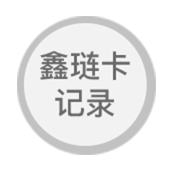
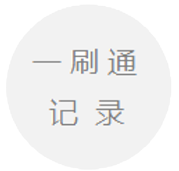
1.修改鑫链卡-->一刷通。2.调整路径

Changed region(s): [[0.0877, 0.0877, 0.9357, 0.9064], [0.2632, 0.4971, 0.7018, 0.7602]]

diff --git a/pages/profit/profit.vue b/pages/profit/profit.vue
@@ -68,7 +68,7 @@
 							<text v-else style="font-size: 22rpx;color: rgba(51, 51, 51, 1);">人(使用<text style="font-size: 22rpx;color:rgba(255,96,0,1);">{{is_vips}}</text>人)</text>
 						</view>
 						<view style="margin-top: -20rpx;margin-right: 90rpx;">
-							<text style="font-size: 22rpx;color: rgba(51, 51, 51, 1);">鑫链卡<text style="font-size: 22rpx;color:rgba(255,96,0,1);">{{card_num}}</text>张</text>
+							<text style="font-size: 22rpx;color: rgba(51, 51, 51, 1);">一刷通<text style="font-size: 22rpx;color:rgba(255,96,0,1);">{{card_num}}</text>张</text>
 						</view>
 					</view>
 				</view>
@@ -92,7 +92,7 @@
 					<image src="../../static2/jianto.png" mode="" class="jiantos"></image>
 				</view>
 				</view>
-				<!-- 鑫链卡 -->
+				<!-- 一刷通 -->
 				<view v-show="level_name=='免费用户'" style="margin-top: 10rpx;margin-bottom: 110rpx;" @tap="mianfyh">
 					<image src="../../static2/bannars.png" mode="" style="width: 750rpx;height: 300rpx;"></image>
 				</view>
@@ -118,7 +118,7 @@
 			<!-- 确认变现弹框 -->
 			<uni-popup ref="popup" type="center" style="z-index: 9999;">
 				<view class="tabk">
-					<view class="tabk_b">鑫琏卡变现</view>
+					<view class="tabk_b">一刷通变现</view>
 					<view class="tabk_x">确认将此卡交易变现</view>
 					<view class="tabk_y">折扣价{{sell_money}}元</view>
 					<view class="tabk_k">可在收益页面查看余额后提现</view>
@@ -159,7 +159,7 @@
 				level_name: '', //等级
 				performance_num_str: '', //绩效
 				is_vips: '',//VIP人数
-				card_num: '',//鑫链卡数量
+				card_num: '',//一刷通数量
 				sell_money: '',
 				start: [0, 0],
 				moveY: 0,
@@ -203,7 +203,7 @@
 			},
 			qiaozhuandaokehu() {
 				uni.navigateTo({
-					url: '/pages/Last_page/Custome_services'
+					url: '/pages/Last_page/Custome_service'
 				})
 			},
 			// 获取页面数据
@@ -265,7 +265,7 @@
 			tuij() {
 				this.Goto('/pages/profit/Xinka')
 			},
-			// 鑫链卡使用
+			// 一刷通使用
 			use_sy(coding, card_id) {
 				this.Goto('/pages/profit/Use_file?card_id=' + card_id + '&coding=' + coding)
 			},

diff --git a/pages/share/share.vue b/pages/share/share.vue
@@ -9,14 +9,14 @@
 			<image src="../../static2/erwei.png" mode="" style="width: 42rpx;height: 42rpx;display: inline-block;margin-left: 25rpx;transform: translateY(-10rpx);"></image>
 			<view style="display: inline-block;margin-left: 31rpx;line-height: 50rpx;">
 			<view style="font-size: 32rpx;">分享二维码</view>
-			<view style="font-size: 24rpx;color: rgba(241, 51, 51, 1);">分享二维码后请让客户关注鑫链卡微信公众号</view>
+			<view style="font-size: 24rpx;color: rgba(241, 51, 51, 1);">分享二维码后请让客户关注一刷通微信公众号</view>
 			</view>
 			<image src="../../static2/gengduo.png" mode="" style="width: 19rpx;height: 34rpx;margin-left: 125rpx;transform: translateY(-10rpx);"></image>
 		</view>
 		<!-- 分享公众号 -->
 		<!-- <view class="weimass" @tap="xianshi">
 			<image src="../../static2/wex.png" mode="" style="width: 42rpx;height: 42rpx;margin-left: 25rpx;margin-right: 31rpx;transform: translateY(10rpx);"></image>
-			<text style="font-size: 32rpx;">分享鑫琏卡微信公众号（<text style="font-size: 32rpx;color: rgba(252, 128, 128, 1);font-weight: bold;">客服</text>）</text>
+			<text style="font-size: 32rpx;">分享一刷通微信公众号（<text style="font-size: 32rpx;color: rgba(252, 128, 128, 1);font-weight: bold;">客服</text>）</text>
 			<image src="../../static2/gengduo.png" mode="" style="width: 19rpx;height: 34rpx;margin-left: 155rpx;"></image>
 		</view> -->
 		<graceBottomDialog :show="show3" v-on:closeDialog="closeDialog3">

diff --git a/pages/personal_center/Limited_activities.vue b/pages/personal_center/Limited_activities.vue
@@ -6,7 +6,7 @@
     <view class="titlequ">限时领取</view>
     <view class="title_2"></view>
     <view class="zhuancx">VIP专享</view>
-    <view class="zhuancx_2">鑫琏卡加速包</view>
+    <view class="zhuancx_2">一刷通加速包</view>
     <view class="zhuancx_3">年营利5倍以上静态收益</view>
     <view class="zhuancx_3">70天可获全额度变现卡一张</view>
     <view class="liqujd">
@@ -41,7 +41,7 @@
           margin-left: 34rpx;
           margin-top: -45rpx;
         "
-        >*进度到达100%后获得一张鑫琏卡</view
+        >*进度到达100%后获得一张一刷通</view
       >
     </view>
     <view class="ann_linq" @tap="lingqus">
@@ -64,9 +64,9 @@
         <view class="linqu">领取规则</view>
         <view class="linqu_1">1.此活动仅对VIP及以上用户有效。</view>
         <view class="linqu_2">2.每周产生一笔云刷或代还，即可</view>
-        <view class="linqu_2s">领取10%鑫琏卡加速包。</view>
-        <view class="linqu_3">3.获取的鑫琏卡进度可在“卡券-鑫</view>
-        <view class="linqu_3s">琏卡中查看。</view>
+        <view class="linqu_2s">领取10%一刷通加速包。</view>
+        <view class="linqu_3">3.获取的一刷通进度可在“卡券-一</view>
+        <view class="linqu_3s">刷通中查看。</view>
         <view class="linqu_4">本活动最终解释权归xxxxxxxx所有</view>
         <view @tap="quxiao">
           <image

diff --git a/pages/profit/Xinka.vue b/pages/profit/Xinka.vue
@@ -1,7 +1,7 @@
 <template>
 	<!-- 推荐佣金 -->
 	<view slot="gBody">
-		<!-- 鑫链卡记录按钮 -->
+		<!-- 一刷通记录按钮 -->
 			<view class="wqann" @tap="jilu">
 				<image :style="'left:'+moveX+'px;top:'+moveY+'px'" src="../../static2/xnkjinu.png" @touchstart="drag_start"
 				 @touchmove.prevent="drag_hmove" mode="aspectFit" style="width: 150rpx;height: 150rpx;"></image>
@@ -25,7 +25,7 @@
 		<!-- 确认变现弹框 -->
 		<uni-popup ref="popup" type="center" style="z-index: 9999;">
 			<view class="tabk">
-				<view class="tabk_b">鑫琏卡变现</view>
+				<view class="tabk_b">一刷通变现</view>
 				<view class="tabk_x">确认将此卡交易变现</view>
 				<view class="tabk_y">折扣价{{sell_money}}元</view>
 				<view class="tabk_k">可在收益页面查看余额后提现</view>
@@ -77,7 +77,7 @@
 			}
 		},
 		methods: {
-			// 鑫链卡记录按钮拖拽功能
+			// 一刷通记录按钮拖拽功能
 			drag_start(event) {
 				this.start[0] = event.touches[0].clientX - event.target.offsetLeft;
 				this.start[1] = event.touches[0].clientY - event.target.offsetTop;
@@ -163,7 +163,7 @@
 			qx() {
 				this.$refs.popup.close()
 			},
-			// 鑫链卡使用
+			// 一刷通使用
 			use_sy(coding, card_id) {
 				this.Goto('/pages/profit/Use_file?card_id=' + card_id + '&coding=' + coding)
 			},

diff --git a/pages/register/register.vue b/pages/register/register.vue
@@ -46,7 +46,7 @@
 			<view>
 				<image src="../../static2/butoyi.png" v-if="is_xuanzhong" mode="" style="width: 40rpx;height: 40rpx;transform: translateY(10rpx);margin-left: 24rpx;" @tap="butoyis"></image>
 				<image src="../../static2/toyi.png" v-else mode="" style="width: 40rpx;height: 40rpx;transform: translateY(10rpx);margin-left: 24rpx;" @tap="toyis"></image>
-				<text style="font-size: 28rpx;color: #999999;margin-left: 15rpx;">同意鑫链卡注册协议</text>
+				<text style="font-size: 28rpx;color: #999999;margin-left: 15rpx;">同意一刷通注册协议</text>
 			
 			</view>
 			<!-- 注册按钮 -->
@@ -125,7 +125,7 @@
 				if (this.phoneno.length > 0 && this.yanzhengma.length > 0 && this.mima.length > 0) {
 					if(this.is_xuanzhong == true){
 						uni.showToast({
-							title: '请同意鑫链卡注册协议',
+							title: '请同意一刷通注册协议',
 							icon: "none"
 						});
 					}else{

diff --git a/pages/rise_vip/rise_vip.vue b/pages/rise_vip/rise_vip.vue
@@ -62,7 +62,7 @@
 			<view v-show="is_have_card!==0" @tap="get_pay_type(2)" class="grace-flex grace-flex-vcenter" style="margin-top: 5rpx; width:750rpx;height:100rpx;background:rgba(255,255,255,1);">
 				<view class="grace-rows">
 					<image src="../../static2/xlkzf.png" style="margin-left: 31rpx; width: 70rpx;height: 70rpx;"></image>
-					<text style="margin-left: 31rpx; font-size:26rpx;font-weight:400;color:rgba(42,42,42,1);line-height:30px;">鑫链卡支付</text>
+					<text style="margin-left: 31rpx; font-size:26rpx;font-weight:400;color:rgba(42,42,42,1);line-height:30px;">一刷通支付</text>
 					<image :src="pay_tape===2?'../../static/rise_vip_xuanzhong.png':'../../static/rise_vip_weixuanzhong.png'" style="position: relative; top: 17rpx;left: 375rpx; width: 32rpx;height: 32rpx;"></image>
 				</view>
 			</view>

diff --git a/pages/index/index.vue b/pages/index/index.vue
@@ -136,10 +136,10 @@
 
 			</uni-popup>
 			<!-- 客服服务 -->
-			<view class="kef_s" @tap="qiaozhuandaokehu">
+<!-- 			<view class="kef_s" @tap="qiaozhuandaokehu">
 				<image :style="'left:'+moveX+'px;top:'+moveY+'px'" @touchstart="drag_start" @touchmove.prevent="drag_hmove" src="../../static2/kefs.png"
 				 mode="" style="width: 152rpx;height:79rpx;transform: translate(4rpx,4rpx);"></image>
-			</view>
+			</view> -->
 			<!-- 抵扣券售卖弹框 -->
 			<graceBottomDialog :show="show3" v-on:closeDialog="closeDialog3" style="">
 				<scroll-view scroll-y slot="content" style="background:rgba(255,234,169,1);z-index: 9;">

diff --git a/pages/authentication/real_name.vue b/pages/authentication/real_name.vue
@@ -30,7 +30,7 @@
 	export default {
 		data() {
 			return {
-				name: '鑫琏卡',
+				name: '一刷通',
 				identity: '5100000000000'
 			}
 		},

diff --git a/pages/profit/Use_file.vue b/pages/profit/Use_file.vue
@@ -1,5 +1,5 @@
 <template>
-	<!-- 鑫链卡使用 -->
+	<!-- 一刷通使用 -->
 	<view slot="gBody">
 		<!-- 卡编码 -->
 		<view class="kabm">
